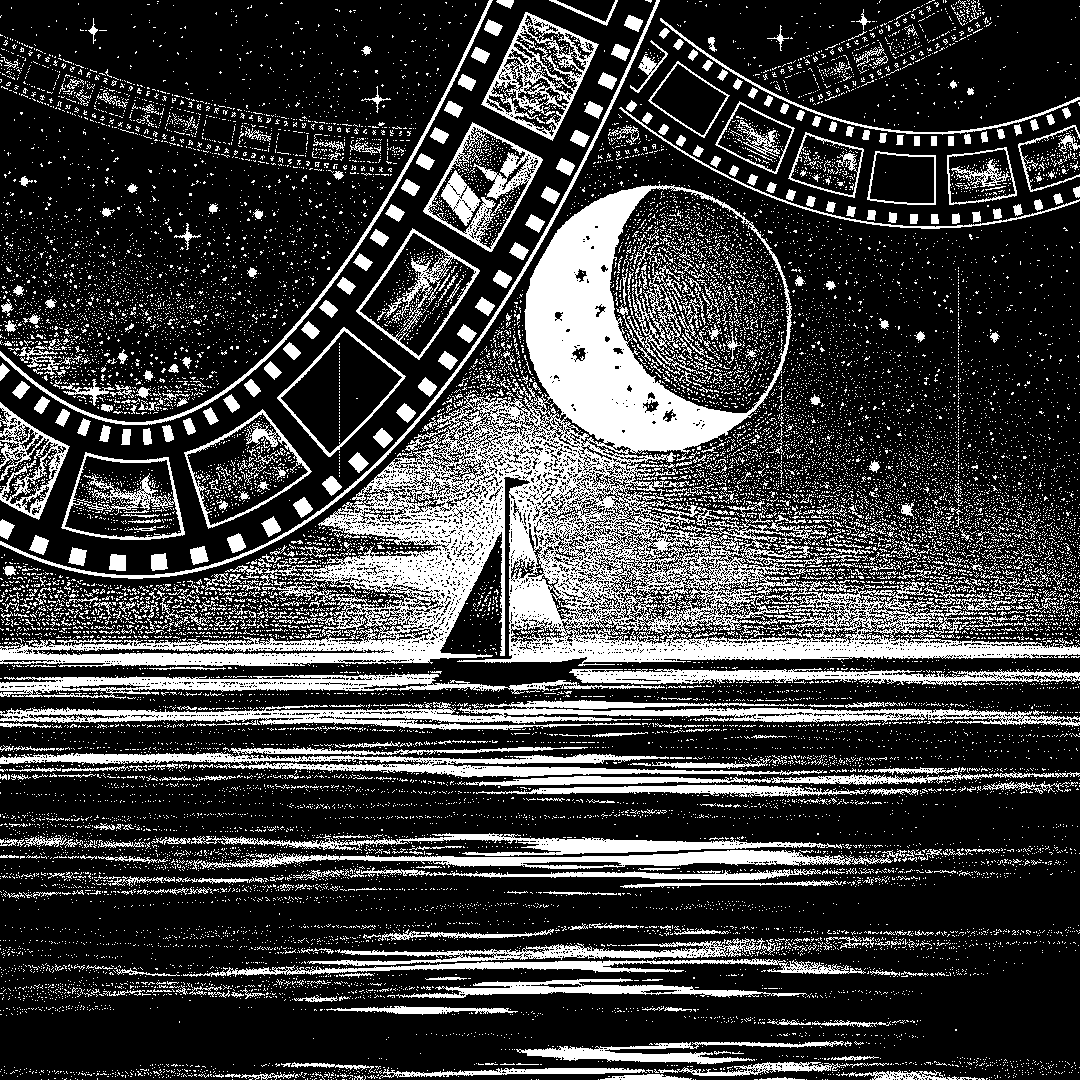
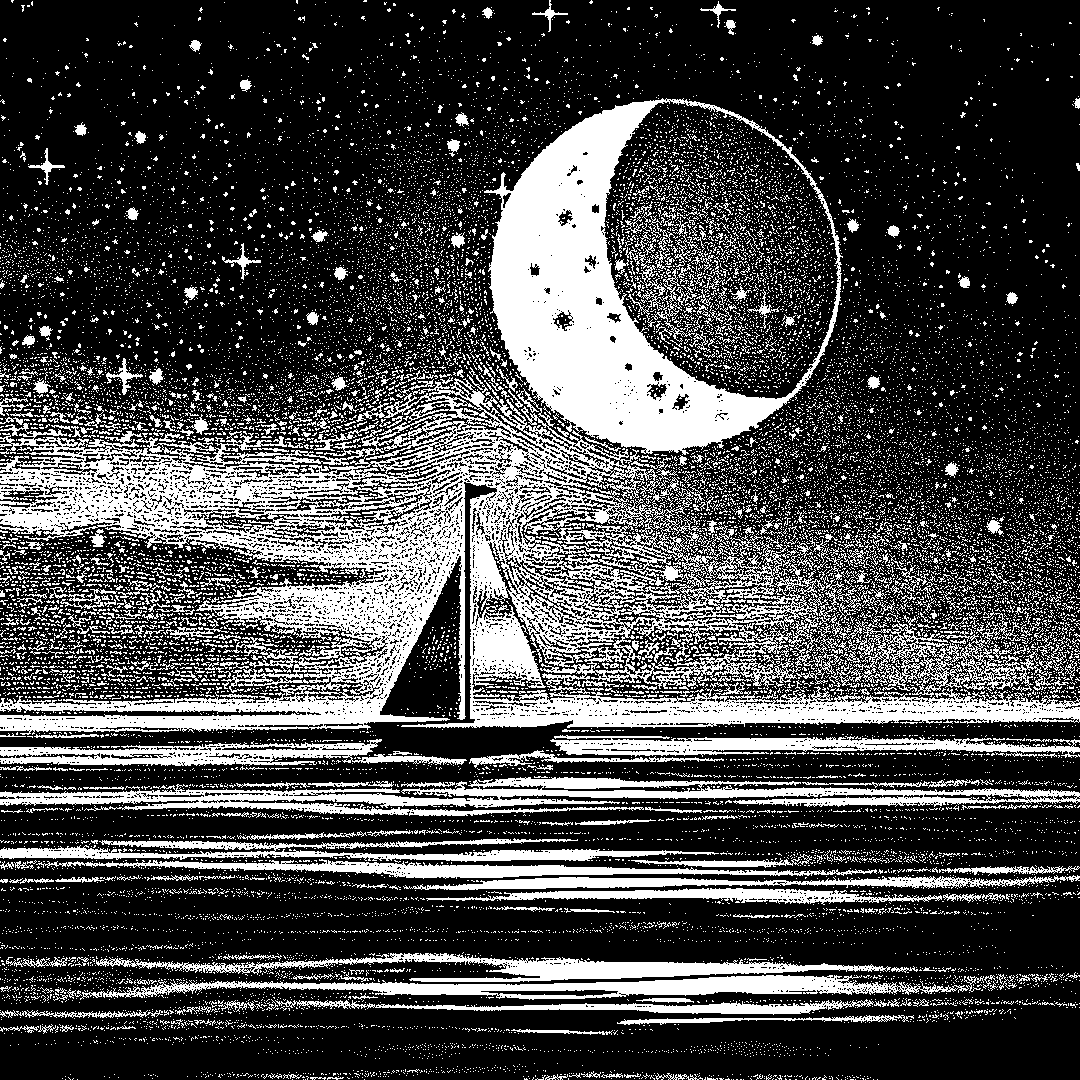
Store box art: a plain square crop of the moonlit sea, no film; drop the duplicate centered file
The app reel stays the tile icon. make_listing_art.render() now also takes a pixel box as the crop.

diff --git a/tools/make_listing_art.py b/tools/make_listing_art.py
@@ -5,9 +5,9 @@ garland hanging over it in three depths: far strips that are small and hazy, mid
 on the film is another scene, also run through the app. No text anywhere, as the Store asks for art.
 
     python tools/make_listing_art.py     ->  store/listing_assets/SuperHeroArt_1920x1080.png, SuperHeroArt_3840x2160.png,
-                                              StoreBoxArt_1080x1080.png, StoreBoxArt_1080x1080_centered.png, StorePosterArt_1440x2160.png
+                                              StoreBoxArt_1080x1080.png, StorePosterArt_1440x2160.png
 
-The 4K hero and the poster are the same drawing doubled with nearest-neighbour, so every dot stays a crisp square, like a 2x zoom in the app.
+The box art is a plain square of the same sea, with no film on it. The 4K hero and the poster are the same drawing doubled with nearest-neighbour, so every dot stays a crisp square, like a 2x zoom in the app.
 Needs the scenes first (tools/make_listing_scenes.py) and the project environment: it calls `python -m benvid`, and the IRNM1 or DirectML
 parts need onnxruntime in that environment (this script itself only uses Engraving)."""
 from __future__ import annotations
@@ -34,12 +34,15 @@ _cache: dict = {}
 
 def render(scene: str, crop: tuple[float, float] | None, height: int, method: int = 5) -> np.ndarray:
     """a scene through the app at exactly `height` px tall; returns a bool array (True = paper/white).
-    `crop` = (aspect, x-centre 0..1) takes a window of the 1920x1080 source first"""
+    `crop` = (aspect, x-centre 0..1) takes a full-height window of the 1920x1080 source first; (x, y, w, h) takes that pixel box"""
     key = (scene, crop, height, method)
     if key in _cache:
         return _cache[key]
     src = Image.open(os.path.join(SCENES, scene)).convert("RGB")
-    if crop:
+    if crop and len(crop) == 4:
+        x, y, w, h = crop
+        src = src.crop((x, y, x + w, y + h))
+    elif crop:
         aspect, cx = crop
         w = int(round(src.height * aspect))
         x0 = int(np.clip(cx * src.width - w / 2, 0, src.width - w))
@@ -193,14 +196,9 @@ def hero() -> None:
 
 
 def box() -> None:
-    H = W = 1080
-    out = render(HERO_SCENE, (1.0, 0.64), H, 5).copy()
-    put(out, *lay(swag(-120, 980, 2, 150), Strip(24, 22, 11), (H, W), 9), haze=0.62)
-    put(out, *lay(swag(560, 1300, -10, 190), Strip(48, 46, 12), (H, W), 13), halo=5)
-    put(out, *lay(swag(-330, 600, -60, 560), Strip(78, 74, 13), (H, W), 5), halo=7)
-    dust(out, 22, (40, H - 40), 90)
+    """a plain square: the moon, the sloop and the sea, nothing laid over it"""
+    out = render(HERO_SCENE, (840, 110, 820, 820), 1080, 5)
     save(out, "StoreBoxArt_1080x1080.png")
-    save(out, "StoreBoxArt_1080x1080_centered.png")
 
 
 def poster() -> None:
